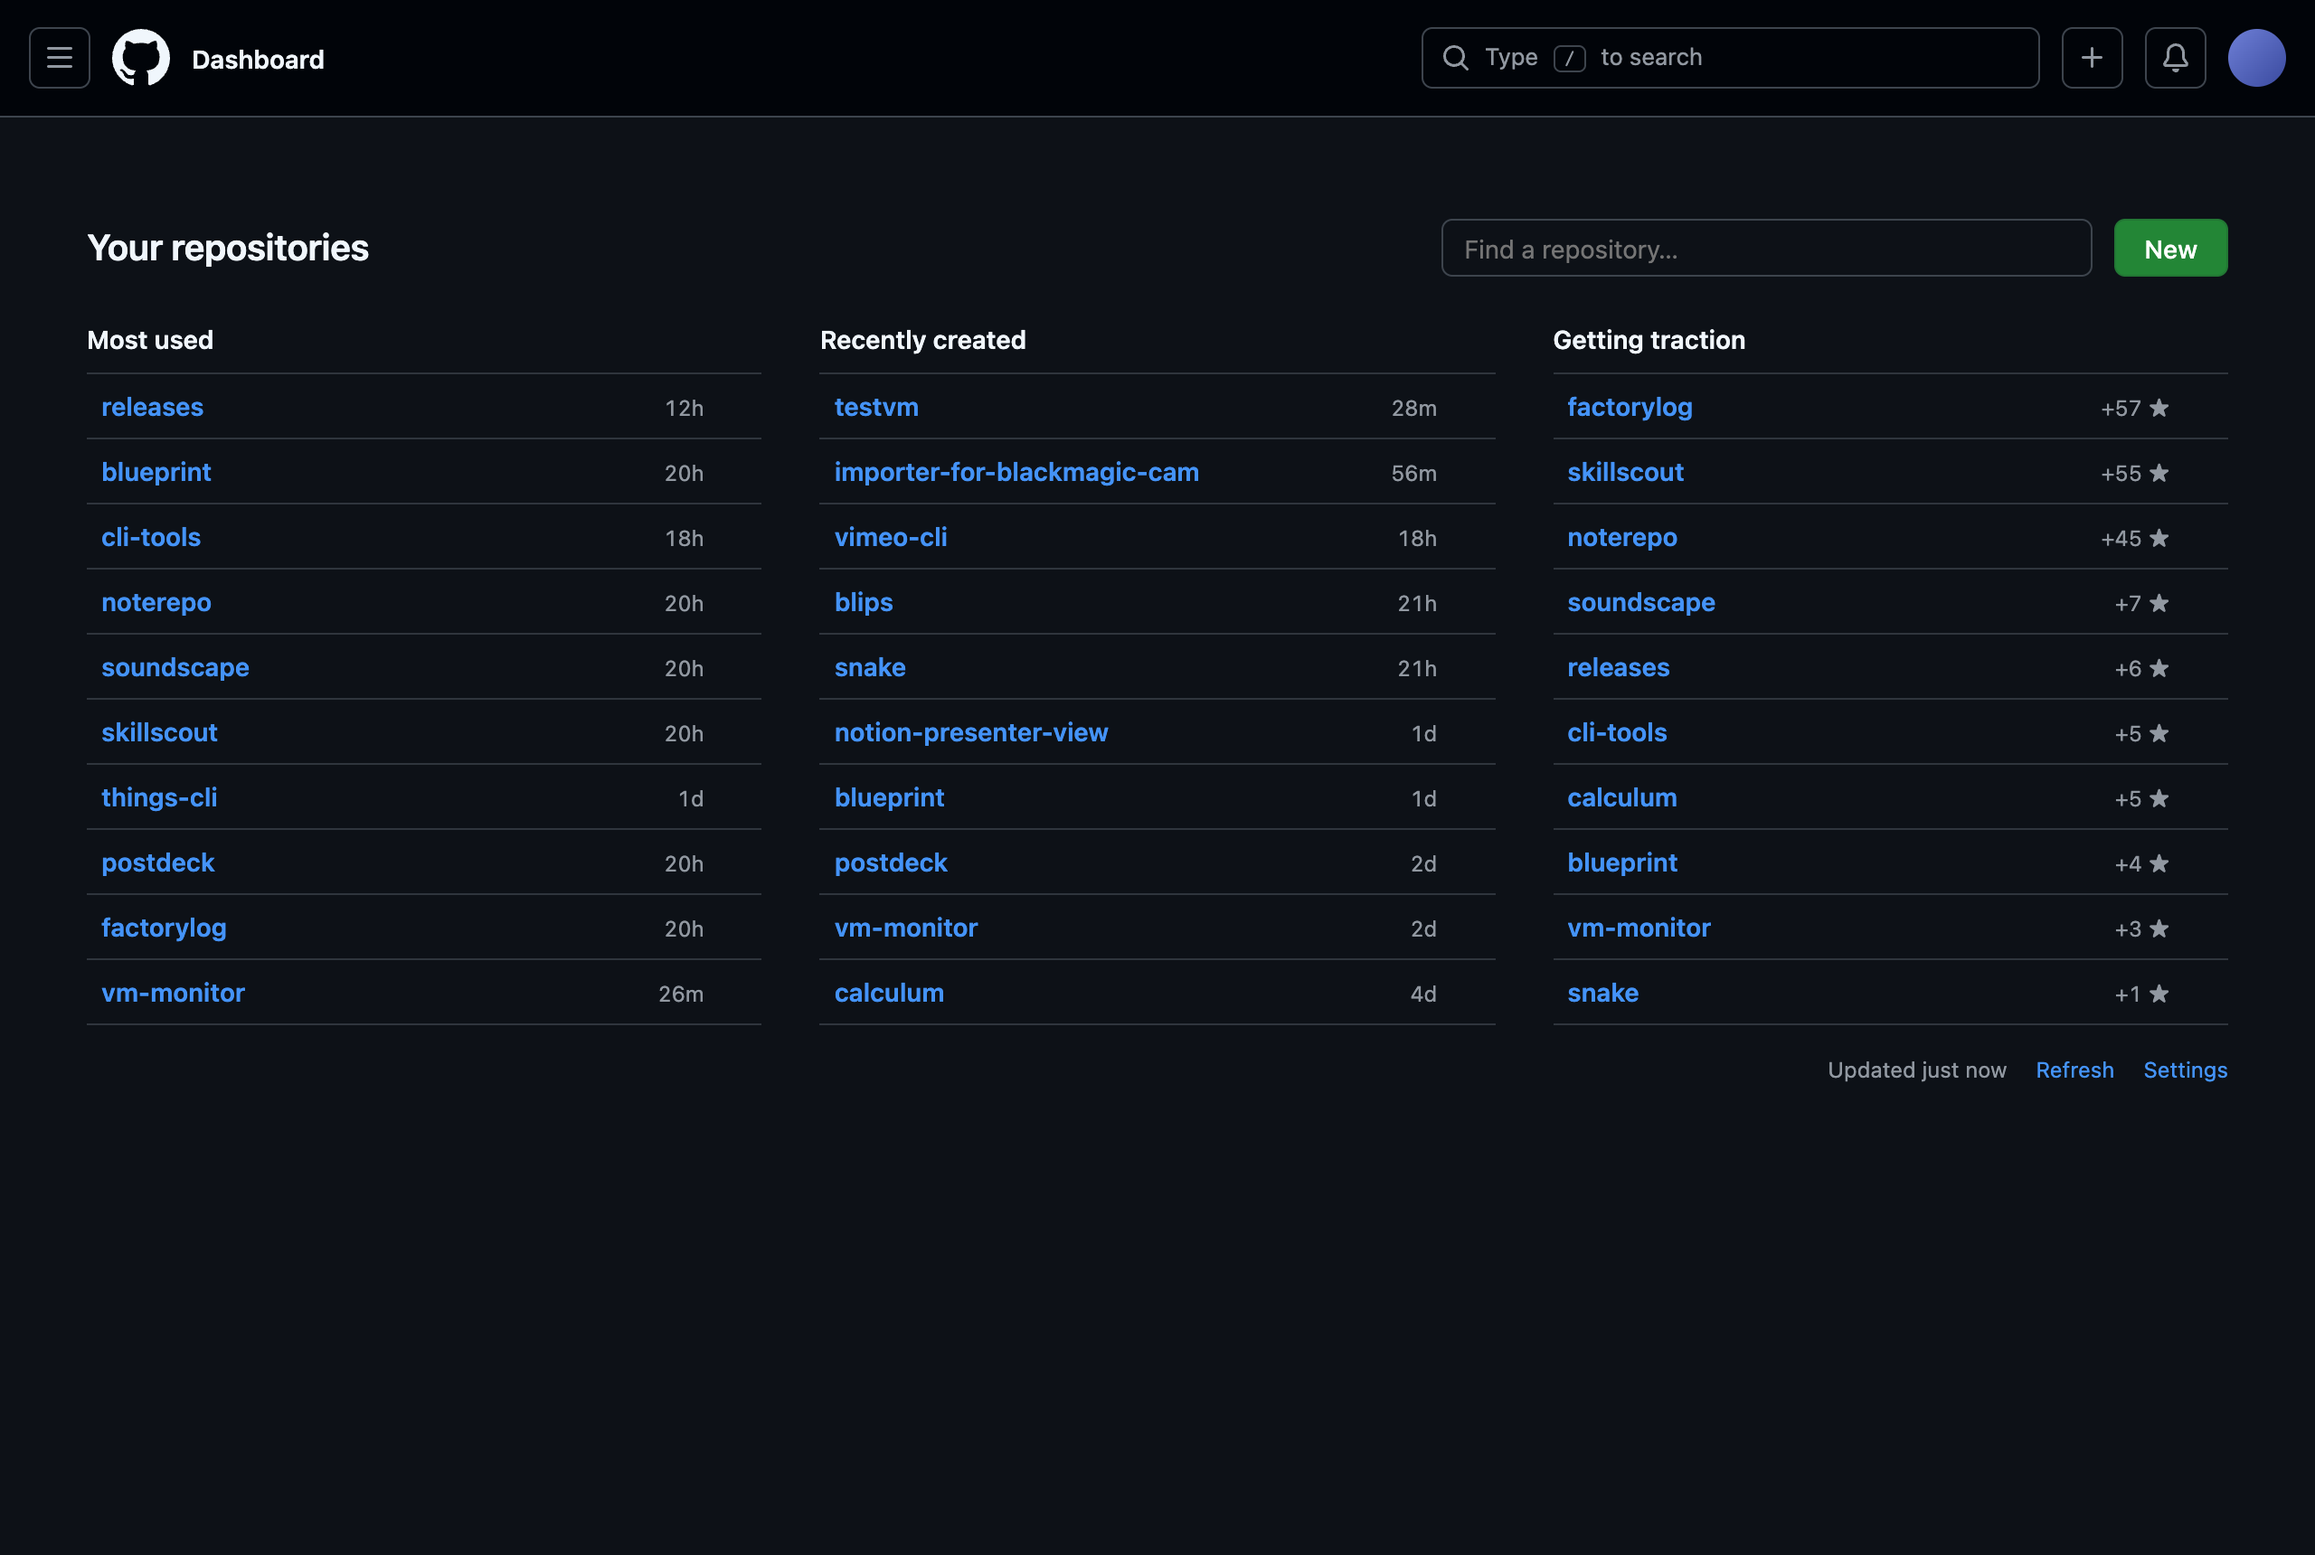
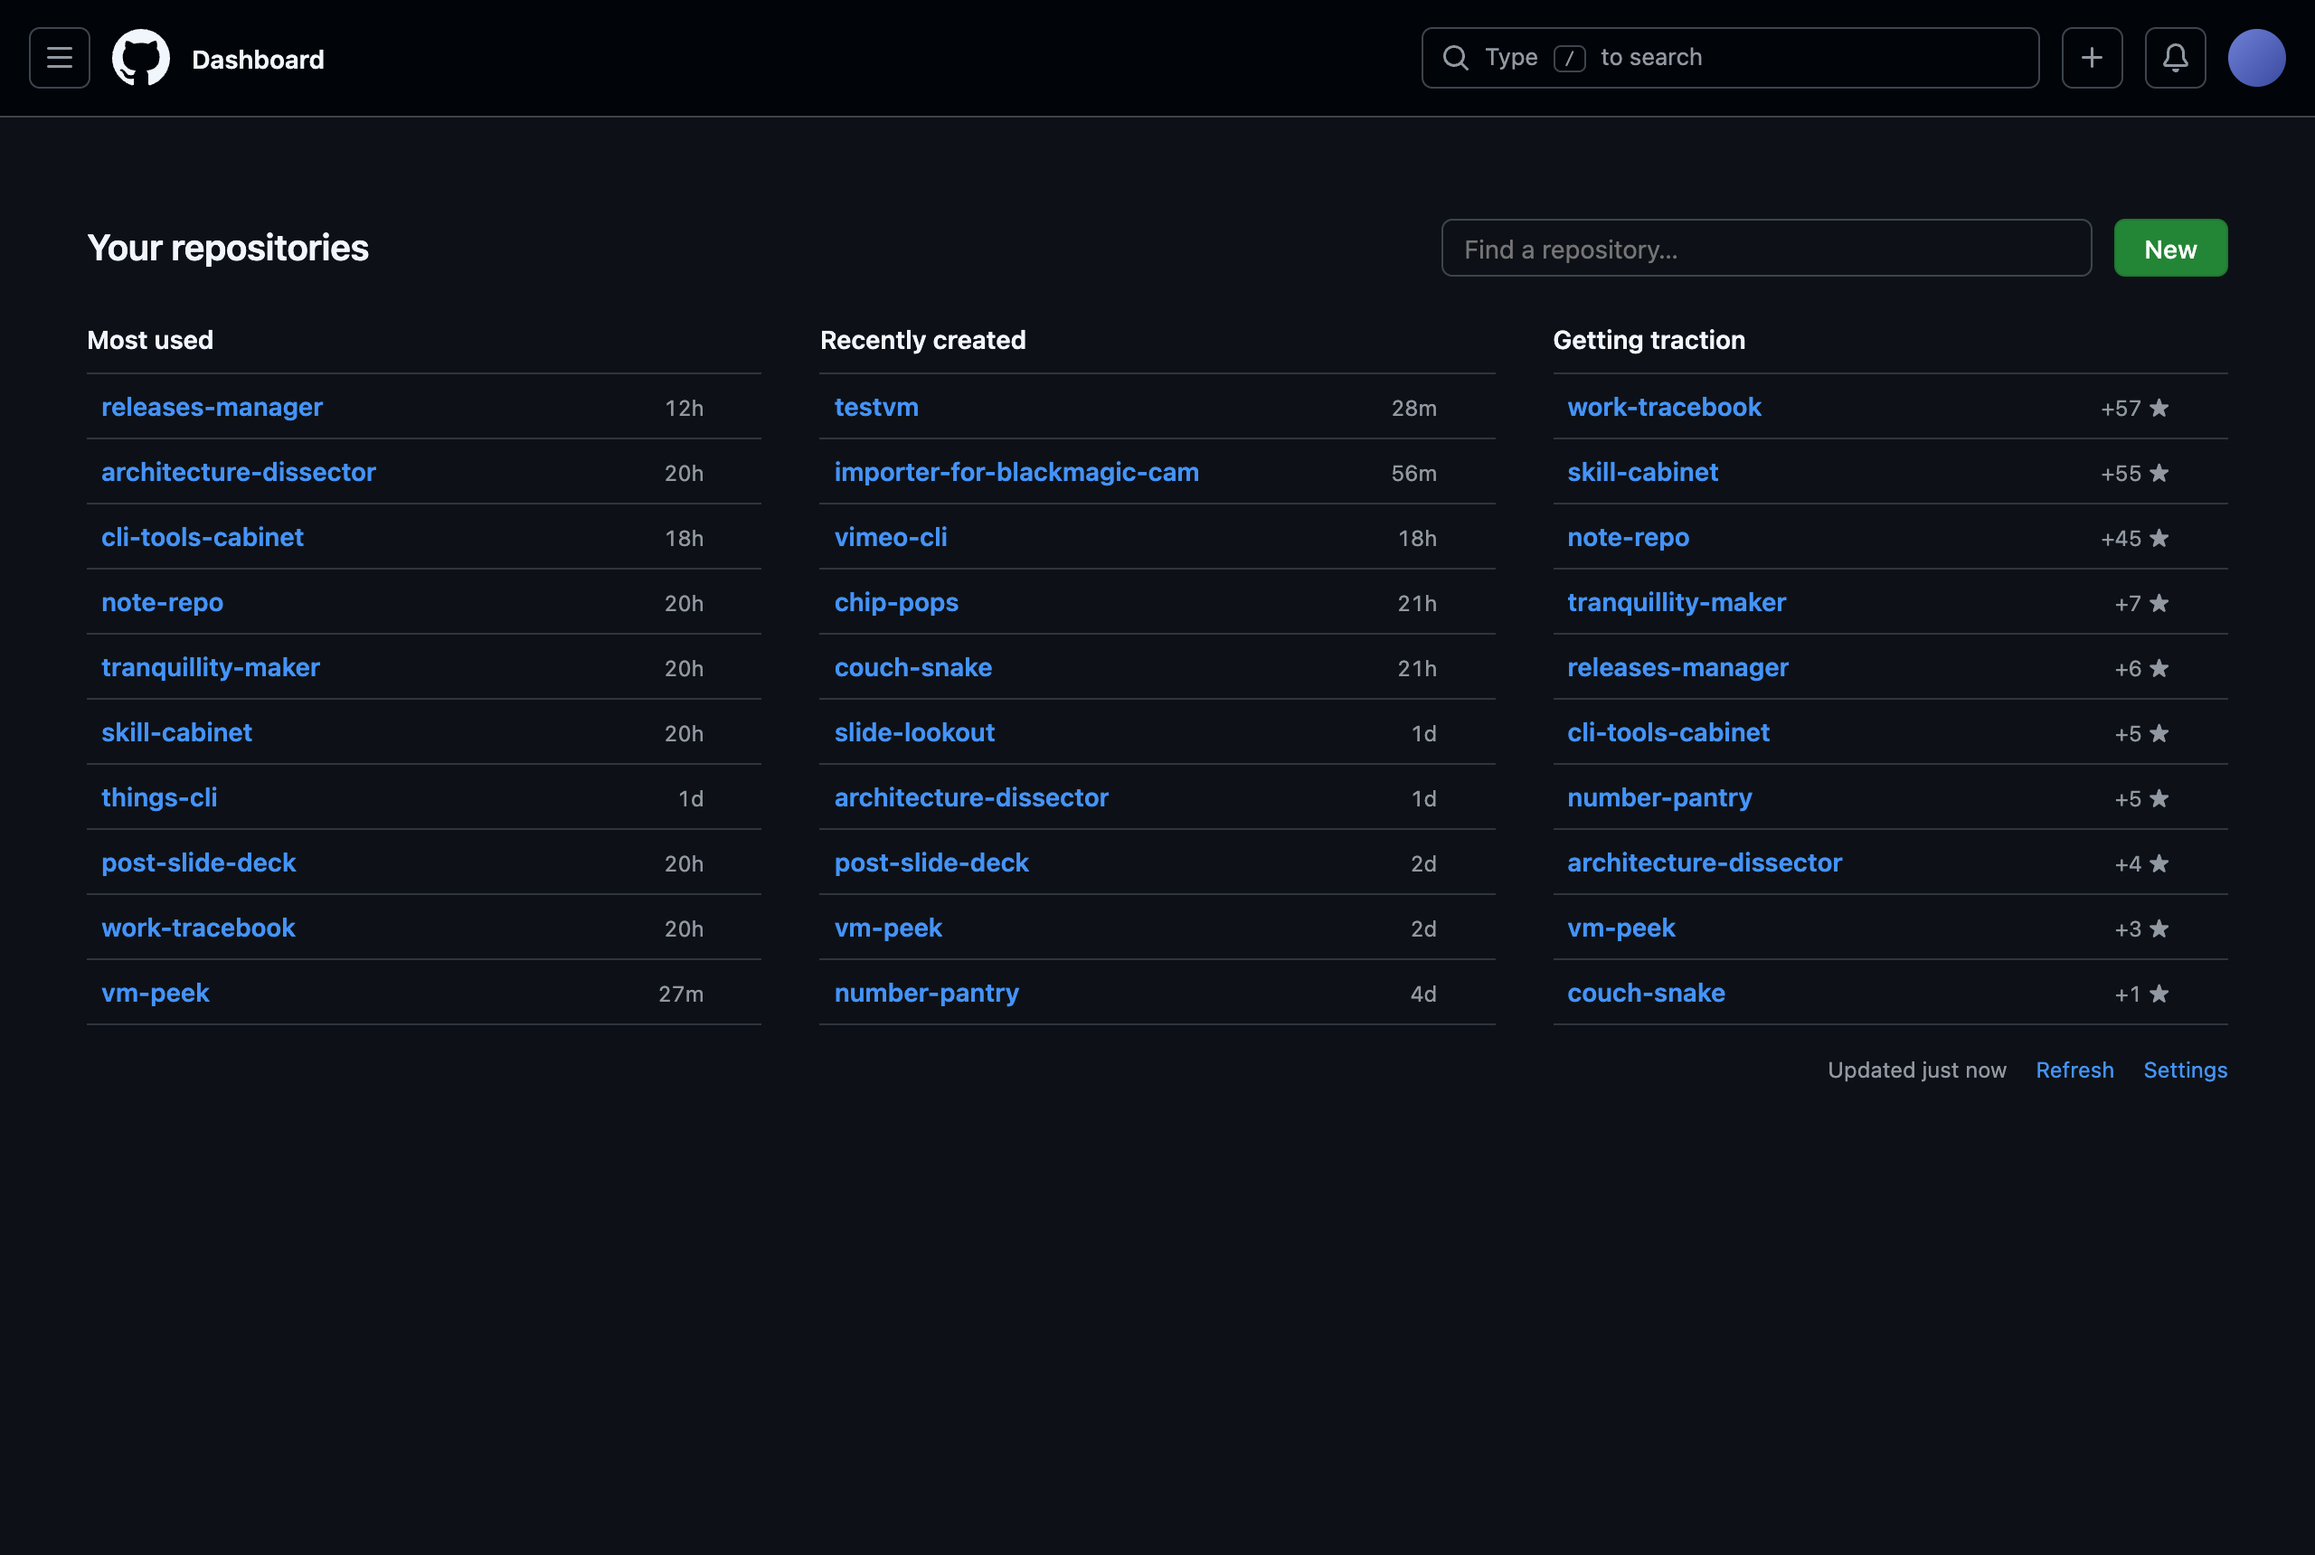
Rename app to Repo Foyer

diff --git a/src/options.html b/src/options.html
@@ -2,12 +2,12 @@
 <html lang="en">
   <head>
     <meta charset="utf-8" />
-    <title>GitHub Home settings</title>
+    <title>Repo Foyer settings</title>
     <link rel="stylesheet" href="options.css" />
   </head>
   <body>
     <main>
-      <h1>GitHub Home</h1>
+      <h1>Repo Foyer</h1>
       <p>
         The extension reads your repositories and your commit activity with a GitHub token. The token stays
         in this browser and is only sent to <code>api.github.com</code>.

diff --git a/scripts/banner.html b/scripts/banner.html
@@ -49,7 +49,7 @@
 <div class="banner">
   <div class="intro">
     <img src="../icons/icon.svg" alt="">
-    <h1>GitHub Home</h1>
+    <h1>Repo Foyer</h1>
     <p>Your repositories on the<br>GitHub home page, not the feed.</p>
     <div class="chips"><span>Most used</span><span>Getting traction</span><span>Type to jump</span></div>
   </div>

diff --git a/README.md b/README.md
@@ -1,39 +1,39 @@
-<img src="docs/banner.png" alt="GitHub Home, a Chrome extension that shows your repositories on the GitHub home page" />
+<img src="docs/banner.png" alt="Repo Foyer, a Chrome extension that shows your repositories on the GitHub home page" />
 
-GitHub Home is a Chrome extension that replaces the GitHub home page with a list of your repositories. You see the ones you work on the most, the ones you created recently, the ones getting stars this week, and a search box to jump to any of them.
+Repo Foyer is a Chrome extension that replaces the GitHub home page with a list of your repositories. You see the ones you work on the most, the ones you created recently, the ones getting stars this week, and a search box to jump to any of them.
 
-I open github.com to get to one of my repos, and the home page shows me a feed instead. With GitHub Home, I land on my repos, type a few letters and press Enter.
+I open github.com to get to one of my repos, and the home page shows me a feed instead. With Repo Foyer, I land on my repos, type a few letters and press Enter.
 
-Read the announcement and watch the 30-second demo on my blog: [I built GitHub Home, a Chrome extension that puts my repos on the GitHub home page](https://flaviocopes.com/github-home/).
+Read the announcement and watch the 30-second demo on my blog: [I built Repo Foyer, a Chrome extension that puts my repos on the GitHub home page](https://flaviocopes.com/repo-foyer/).
 
-[![Watch the 30-second GitHub Home demo](docs/showreel-poster.jpg)](https://flaviocopes.com/github-home/)
+[![Watch the 30-second Repo Foyer demo](docs/showreel-poster.jpg)](https://flaviocopes.com/repo-foyer/)
 
 <picture>
   <source media="(prefers-color-scheme: dark)" srcset="docs/screenshot-dark.png" />
-  <img src="docs/screenshot-light.png" alt="The GitHub home page with GitHub Home: three short lists of repos, most used, recently created and getting traction" />
+  <img src="docs/screenshot-light.png" alt="The GitHub home page with Repo Foyer: three short lists of repos, most used, recently created and getting traction" />
 </picture>
 
 ## Install
 
-GitHub Home isn't on the Chrome Web Store, so you load it into Chrome yourself. It takes a couple of minutes.
+Repo Foyer isn't on the Chrome Web Store, so you load it into Chrome yourself. It takes a couple of minutes.
 
-1. Get `GitHub-Home-1.2.0.zip` from the [latest release](https://github.com/flaviocopes/github-home/releases/latest) and unzip it.
-2. Move the `GitHub-Home-1.2.0` folder somewhere it can stay, like your Documents folder. Chrome runs the extension from that folder, so if you delete it, GitHub Home is gone.
+1. Get `Repo-Foyer-1.3.0.zip` from the [latest release](https://github.com/flaviocopes/repo-foyer/releases/latest) and unzip it.
+2. Move the `Repo-Foyer-1.3.0` folder somewhere it can stay, like your Documents folder. Chrome runs the extension from that folder, so if you delete it, Repo Foyer is gone.
 3. Open `chrome://extensions` and turn on **Developer mode** in the top right corner.
 4. Click **Load unpacked** and pick that folder.
-5. The settings page needs a GitHub token. Click the puzzle icon in the toolbar, then GitHub Home, and paste the token there.
+5. The settings page needs a GitHub token. Click the puzzle icon in the toolbar, then Repo Foyer, and paste the token there.
 
 ### The token
 
-GitHub Home reads your repositories with the GitHub API, so it needs a token.
+Repo Foyer reads your repositories with the GitHub API, so it needs a token.
 
-[Create a classic token](https://github.com/settings/tokens/new?scopes=repo&description=GitHub%20Home%20extension) with the `repo` scope. That scope is what lets it see private repos and the ones in your organizations. If an organization uses SAML single sign-on, authorize the token for it on the tokens page, or its repos won't show up.
+[Create a classic token](https://github.com/settings/tokens/new?scopes=repo&description=Repo%20Foyer%20extension) with the `repo` scope. That scope is what lets it see private repos and the ones in your organizations. If an organization uses SAML single sign-on, authorize the token for it on the tokens page, or its repos won't show up.
 
 If you use the GitHub CLI, `gh auth token | pbcopy` copies a token you can paste instead.
 
 ### Updates
 
-An extension you load this way doesn't update on its own. When there's a new release, unzip it and copy its files into your GitHub Home folder, replacing the old ones. Then click the reload arrow on the GitHub Home card in `chrome://extensions`. Your token and visit history stay.
+An extension you load this way doesn't update on its own. When there's a new release, unzip it and copy its files into your Repo Foyer folder, replacing the old ones. Then click the reload arrow on the Repo Foyer card in `chrome://extensions`. Your token and visit history stay.
 
 To hear about new versions, click **Watch** on this repo, then **Custom** and **Releases**.
 
@@ -63,17 +63,17 @@ The commit counts come from each repo's own history, not from your contribution 
 
 ## How "Getting traction" works
 
-For each repo pushed in the last 90 days, GitHub Home reads its newest 100 stars and counts the ones from the last 7 days. A repo you released last week that got 50 stars shows up. An old repo with thousands of stars and none this week doesn't.
+For each repo pushed in the last 90 days, Repo Foyer reads its newest 100 stars and counts the ones from the last 7 days. A repo you released last week that got 50 stars shows up. An old repo with thousands of stars and none this week doesn't.
 
 It only lists public repos you own or that belong to your organizations, and leaves out forks.
 
 ## The cache
 
-The lists are cached, so the page shows up right away. When the cache is older than 5 minutes, GitHub Home refreshes it in the background. The **Refresh** link at the bottom of the page does it right away.
+The lists are cached, so the page shows up right away. When the cache is older than 5 minutes, Repo Foyer refreshes it in the background. The **Refresh** link at the bottom of the page does it right away.
 
 ## Privacy
 
-The token stays in Chrome's extension storage, and GitHub Home only sends it to `api.github.com`.
+The token stays in Chrome's extension storage, and Repo Foyer only sends it to `api.github.com`.
 
 To count visits, the extension runs on github.com pages and saves the `owner/repo` part of the address with the time, in Chrome's extension storage. It keeps the last 50 visits per repo and forgets a repo after 180 days without a visit. **Clear visit history** in the settings deletes all of it.
 
@@ -83,7 +83,7 @@ There are no accounts, no analytics and no other servers.
 
 ## Build it from source
 
-There's no build step. Clone the repo and load the folder itself with **Load unpacked**, as in the install steps. After you edit a file, click the reload arrow on the GitHub Home card and reload the GitHub tab.
+There's no build step. Clone the repo and load the folder itself with **Load unpacked**, as in the install steps. After you edit a file, click the reload arrow on the Repo Foyer card and reload the GitHub tab.
 
 To make the release zip, run:
 
@@ -91,7 +91,7 @@ To make the release zip, run:
 scripts/build-release.sh
 ```
 
-It copies the extension files into `dist/GitHub-Home-<version>.zip` and prints its SHA-256. The same commit always gives the same zip, so you can check that a release matches its tag.
+It copies the extension files into `dist/Repo-Foyer-<version>.zip` and prints its SHA-256. The same commit always gives the same zip, so you can check that a release matches its tag.
 
 ## Development
 

diff --git a/AGENTS.md b/AGENTS.md
@@ -1,4 +1,4 @@
-# GitHub Home
+# Repo Foyer
 
 A Chrome extension that replaces the github.com home page with three short lists of your repositories (most used, recently created, getting traction) and a search box. It's plain JavaScript with no build step.
 
@@ -14,7 +14,7 @@ A Chrome extension that replaces the github.com home page with three short lists
 - `test/test.mjs`: the test.
 - `scripts/screenshots.mjs`: the README screenshots, from the demo data. `--live` uses your own repos and writes to `preview/`.
 - `scripts/banner.html` and `scripts/render-banner.mjs`: the README banner, rendered to `docs/banner.png`.
-- `scripts/build-release.sh`: zips the extension into `dist/GitHub-Home-<version>.zip`.
+- `scripts/build-release.sh`: zips the extension into `dist/Repo-Foyer-<version>.zip`.
 
 ## Build and run
 
@@ -27,10 +27,10 @@ npm run screenshots                  # docs/screenshot-light.png and docs/screen
 npm run preview                      # the same with your own repos, in preview/ (needs the gh CLI)
 npm run banner                       # docs/banner.png at 2x, from the dark screenshot
 npm run icons                        # icons/*.png from icons/icon.svg
-scripts/build-release.sh             # dist/GitHub-Home-<version>.zip and its SHA-256
+scripts/build-release.sh             # dist/Repo-Foyer-<version>.zip and its SHA-256
 ```
 
-To try a change in your own Chrome, open `chrome://extensions`, turn on Developer mode, click **Load unpacked** and pick this folder. After editing, click the reload arrow on the GitHub Home card and reload the GitHub tab.
+To try a change in your own Chrome, open `chrome://extensions`, turn on Developer mode, click **Load unpacked** and pick this folder. After editing, click the reload arrow on the Repo Foyer card and reload the GitHub tab.
 
 ## Rules
 
@@ -41,4 +41,4 @@ To try a change in your own Chrome, open `chrome://extensions`, turn on Develope
 - Keep the old page hidden until GitHub swaps in the new one when leaving the home page (the `LEAVE_TIMEOUT` logic in `sync()`), or the feed flashes for a moment.
 - Don't add permissions the extension doesn't need.
 - The version in `manifest.json` and `package.json` must equal the release tag without the `v`. Releases attach the zip from `scripts/build-release.sh`, built from the tagged commit.
-- The showreel video lives on flaviocopes.com, not in this repo. A local copy at `/github-home-showreel.mp4` is ignored by git.
+- The showreel video lives on flaviocopes.com, not in this repo. A local copy at `/repo-foyer-showreel.mp4` is ignored by git.
